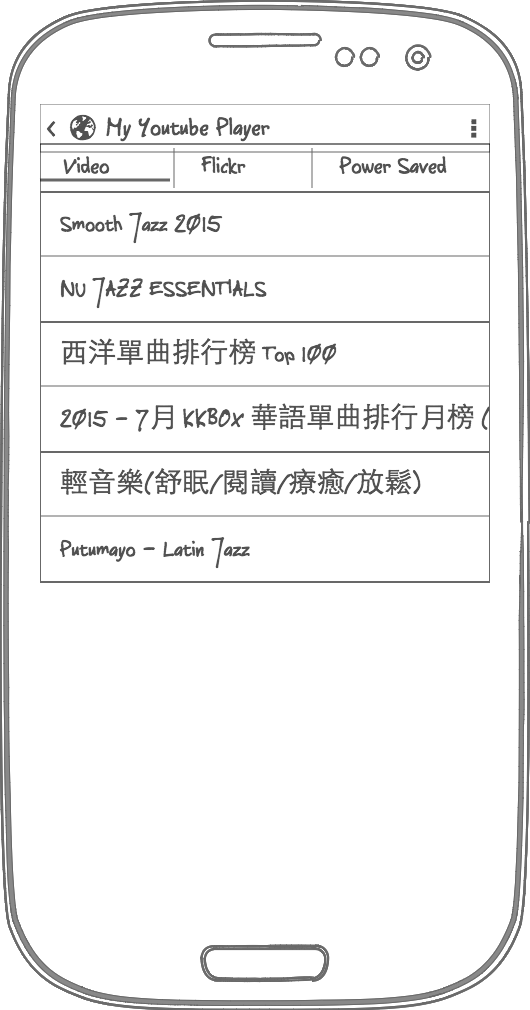
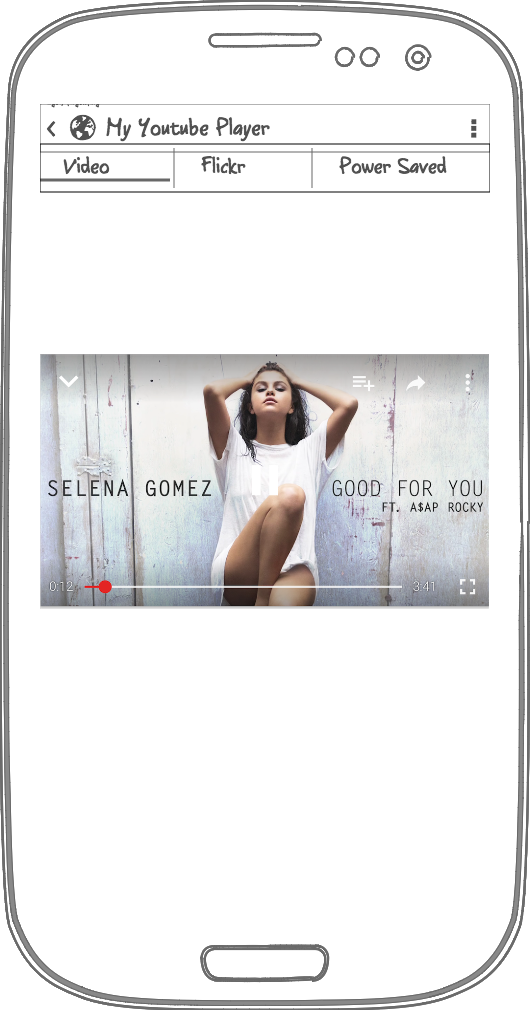
Group project

Changed region(s): [[0.0604, 0.2762, 0.9358, 0.6139], [0.1208, 0.2149, 0.4226, 0.2455]]

diff --git a/README.md b/README.md
@@ -26,4 +26,6 @@ The following **optional** features are implemented:
 <img src='images/page2.png' title='Main' width='' alt='Main' />
 <img src='images/page3.png' title='Main' width='' alt='Main' />
 <img src='images/page4.png' title='Main' width='' alt='Main' />
+<img src='images/page5.png' title='Main' width='' alt='Main' />
+<img src='images/page6.png' title='Main' width='' alt='Main' />
 
